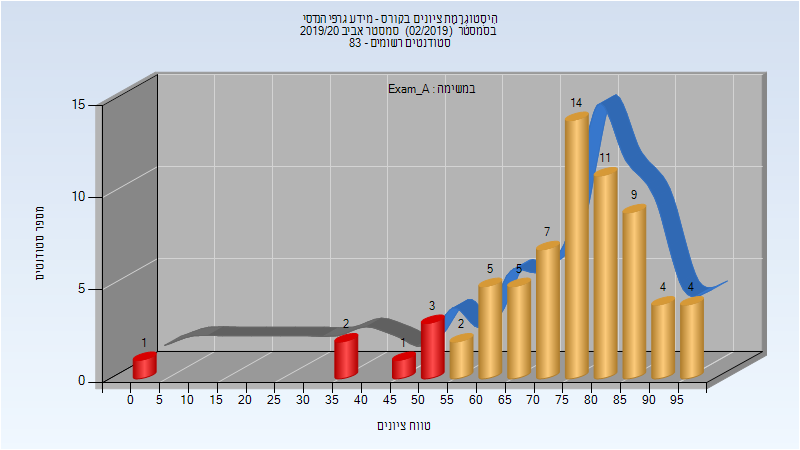
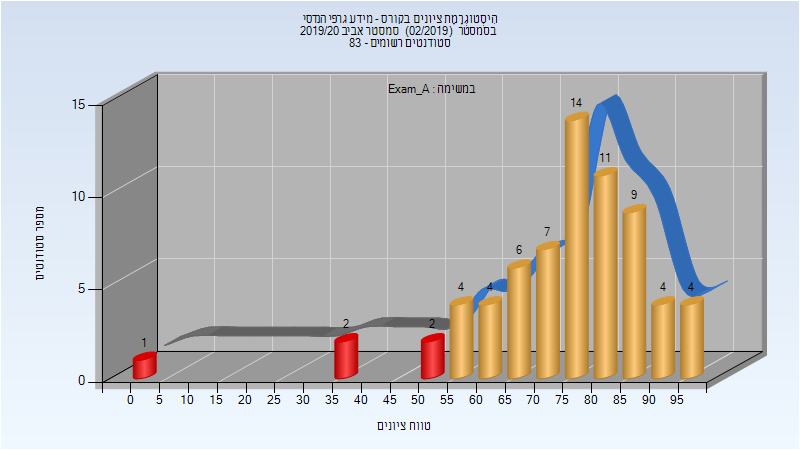
Deploy michael-maltsev/technion-histograms to github.com/michael-maltsev/technion-histograms.git:gh-pages

Changed region(s): [[0.4688, 0.56, 0.6875, 0.84], [0.6875, 0.5289, 0.7188, 0.56]]

diff --git a/014008/index.html b/014008/index.html
@@ -1189,12 +1189,64 @@
 <tbody>
 <tr>
 <td>68</td>
-<td>61/7</td>
-<td>90</td>
+<td>63/5</td>
+<td>93</td>
 <td>0</td>
 <td>99</td>
-<td>74.5</td>
+<td>74.632</td>
 <td>77.5</td>
+</tr>
+</tbody>
+</table>
+<h3>סופי מועד א'</h3>
+<p><img src="201902/Final_A.png" alt="201902 Final_A" /></p>
+<table>
+<thead>
+<tr>
+<th>סטודנטים</th>
+<th>עברו/נכשלו</th>
+<th>אחוז עוברים</th>
+<th>ציון מינימלי</th>
+<th>ציון מקסימלי</th>
+<th>ממוצע</th>
+<th>חציון</th>
+</tr>
+</thead>
+<tbody>
+<tr>
+<td>67</td>
+<td>63/4</td>
+<td>94</td>
+<td>37</td>
+<td>99</td>
+<td>80.254</td>
+<td>84</td>
+</tr>
+</tbody>
+</table>
+<h3>סופי</h3>
+<p><img src="201902/Finals.png" alt="201902 Finals" /></p>
+<table>
+<thead>
+<tr>
+<th>סטודנטים</th>
+<th>עברו/נכשלו</th>
+<th>אחוז עוברים</th>
+<th>ציון מינימלי</th>
+<th>ציון מקסימלי</th>
+<th>ממוצע</th>
+<th>חציון</th>
+</tr>
+</thead>
+<tbody>
+<tr>
+<td>67</td>
+<td>63/4</td>
+<td>94</td>
+<td>37</td>
+<td>99</td>
+<td>80.254</td>
+<td>84</td>
 </tr>
 </tbody>
 </table>

diff --git a/014008/README.md b/014008/README.md
@@ -373,5 +373,21 @@
 
 | סטודנטים | עברו/נכשלו | אחוז עוברים | ציון מינימלי | ציון מקסימלי | ממוצע | חציון |
 | ---- | ---- | ---- | ---- | ---- | ---- | ---- |
-| 68 | 61/7 | 90 | 0 | 99 | 74.5 | 77.5 |
+| 68 | 63/5 | 93 | 0 | 99 | 74.632 | 77.5 |
+
+### סופי מועד א'
+
+![201902 Final_A](201902/Final_A.png)
+
+| סטודנטים | עברו/נכשלו | אחוז עוברים | ציון מינימלי | ציון מקסימלי | ממוצע | חציון |
+| ---- | ---- | ---- | ---- | ---- | ---- | ---- |
+| 67 | 63/4 | 94 | 37 | 99 | 80.254 | 84 |
+
+### סופי
+
+![201902 Finals](201902/Finals.png)
+
+| סטודנטים | עברו/נכשלו | אחוז עוברים | ציון מינימלי | ציון מקסימלי | ממוצע | חציון |
+| ---- | ---- | ---- | ---- | ---- | ---- | ---- |
+| 67 | 63/4 | 94 | 37 | 99 | 80.254 | 84 |
 
